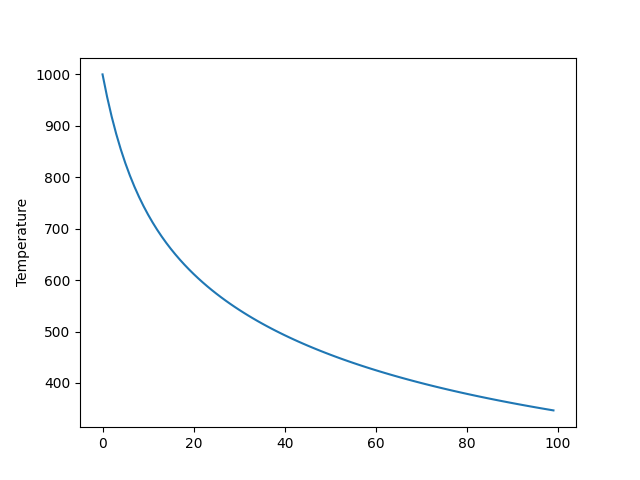
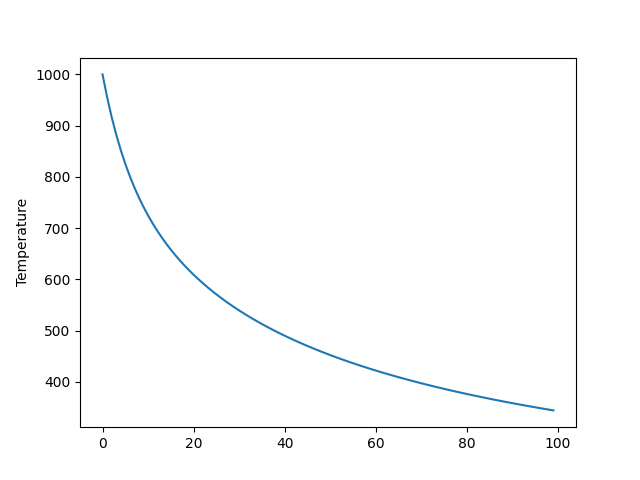
made code efficient. code has been executed in around 2 hours. graph should be same for both the previos and current code but we could not track the reason why values changed because code was lost.

diff --git a/test.py b/test.py
@@ -1,0 +1,66 @@
+import matplotlib.pyplot as plt
+import numpy as np
+
+print("Hello World")
+
+arr = []
+time_taken = 0.0;
+dr = 0.0004
+R = 0.0080
+n = int(R/dr)
+T = np.ones(n)*1000
+Tf = np.ones(n)
+
+ro = 7850.0
+h = 24417.98863
+bR = 2*h/(dr)
+x = (dr*dr*ro)/2.0
+y = (dr*dr)
+z = (R*dr)
+T_water_air = 25.0
+for i in range(100000000):
+	for j in range(1, n-1):
+		cp = 493.71 + (2.3*T[j])
+		k =  9.84 + (0.013*T[j])
+		dt0 =x*cp/(k)
+		dtR = dt0/2.0
+		dtr = 2*x*cp/((2*k/y) - (k/z) + (bR))
+		dt = min(dt0, min(dtr, dtR))
+		a = k/y
+		b = k/(2*z)
+		cr = ro*cp/(dt) - 2*k/(y)
+		d = (dt/(ro*cp))
+		Tf[j] = (a*(T[j-1] + T[j+1]) + b*(T[j-1] - T[j+1]) + cr*(T[j]))*d
+
+	cp = 493.71 + (2.3*T[0])
+	k =  9.84 + (0.013*T[0])
+	dt0 = x*cp/(k)
+	dtR = dt0/2.0
+	dtr = 2*x*cp/((2*k/y) - (k/z) + (bR))
+	dt = min(dt0, min(dtr, dtR))
+	a = k/y
+	c0 = (ro*cp/(dt)) - (4*k/y)
+	d = dt/(ro*cp)
+	Tf[0] = (4*a*T[1] + c0*T[0])*d
+
+	cp = 493.71 + (2.3*T[n-1])
+	k =  9.84 + (0.013*T[n-1])
+	dt0 = x*cp/(k)
+	dtR = dt0/2.0
+	dtr = 2*x*cp/((2*k/y) - (k/z) + (bR))
+	dt = min(dt0, min(dtr, dtR))
+	time_taken = time_taken + dt
+	aR = 2*k/(y) - k/(z)
+	cR = ro*cp/(dt) - (aR) - (bR)
+	d = dt/(ro*cp)
+	Tf[n-1] = (aR*T[n-2] + bR*T_water_air + cR*T[n-1])*d
+
+	T = Tf
+	if(i%1000000 == 0):
+		arr.append(Tf[n-1])
+		print(Tf[n-1], i/1000000, time_taken)
+
+print(arr)
+plt.plot(range(100), arr)
+plt.ylabel('Temperature')
+plt.show(block=True)
